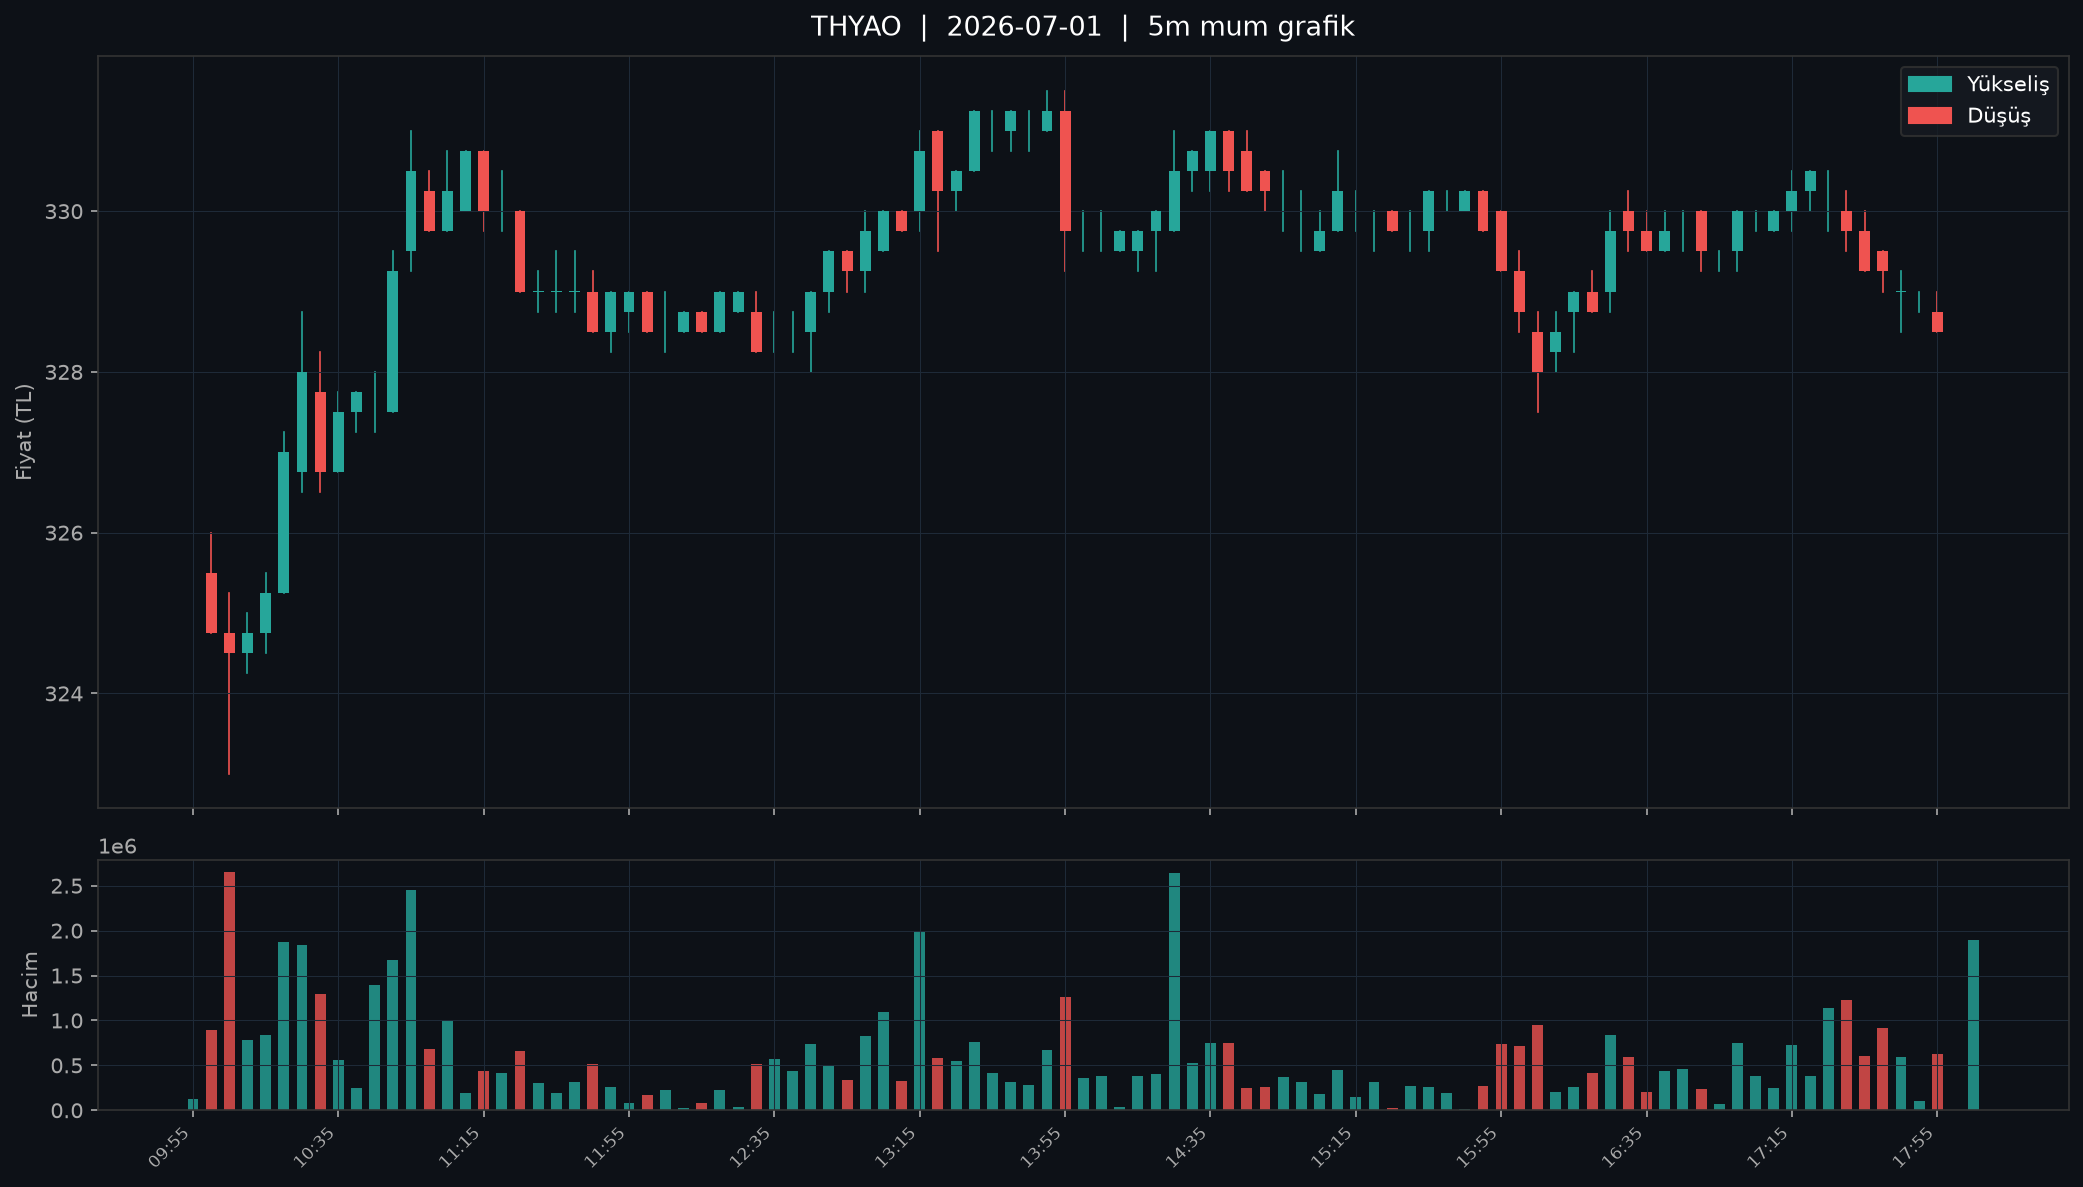
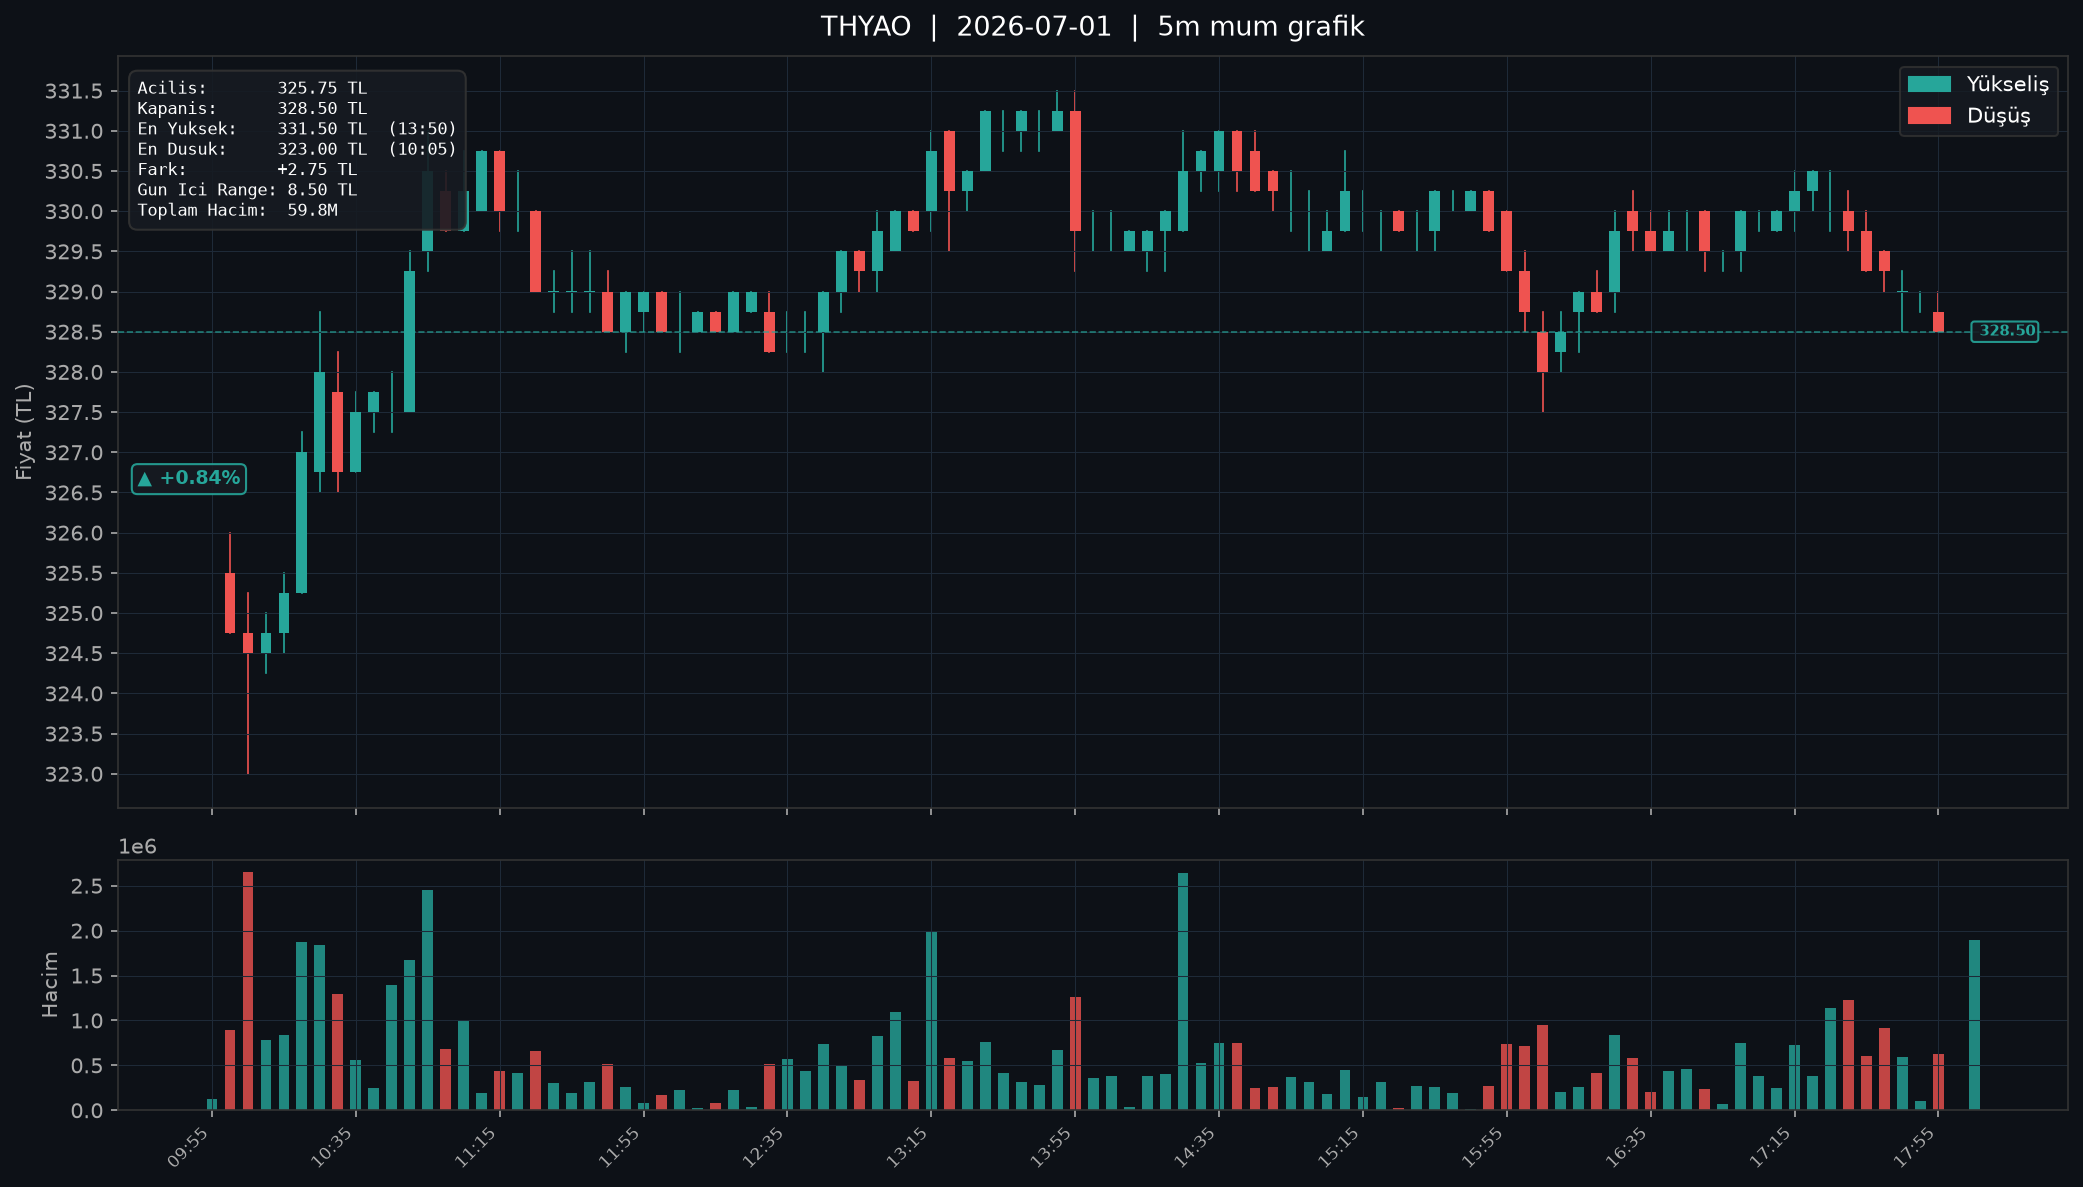
Added detailed price summary overlay and precise tick intervals to candlestick charts

diff --git a/bistgraphic.py b/bistgraphic.py
@@ -1,6 +1,7 @@
 import borsapy as bp
 import matplotlib.pyplot as plt
 import matplotlib.patches as mpatches
+from matplotlib.ticker import MultipleLocator
 import pandas as pd
 
 #parameters
@@ -28,6 +29,28 @@ df["Tarih"] = df["Datetime"].dt.date
 df["Saat"] = df["Datetime"].dt.time
 df.to_csv(f"{dosya_adi}.csv", index=False, encoding="utf-8")
 print(f"CSV kaydedildi: {dosya_adi}.csv")
+
+acilis = df.iloc[0]["Open"]
+kapanis = df.iloc[-1]["Close"]
+en_yuksek_idx = df["High"].idxmax()
+en_dusuk_idx = df["Low"].idxmin()
+en_yuksek = df.loc[en_yuksek_idx, "High"]
+en_dusuk = df.loc[en_dusuk_idx, "Low"]
+en_yuksek_saat = df.loc[en_yuksek_idx, "Datetime"].strftime("%H:%M")
+en_dusuk_saat = df.loc[en_dusuk_idx, "Datetime"].strftime("%H:%M")
+fark_tl = kapanis - acilis
+gun_ici_range = en_yuksek - en_dusuk
+degisim = (kapanis - acilis) / acilis * 100
+toplam_hacim = df["Volume"].sum()
+
+def hacim_format(v):
+    if v >= 1_000_000_000:
+        return f"{v / 1_000_000_000:.1f}B"
+    if v >= 1_000_000:
+        return f"{v / 1_000_000:.1f}M"
+    if v >= 1_000:
+        return f"{v / 1_000:.1f}K"
+    return str(int(v))
 
 #candlestick
 fig, (ax1, ax2) = plt.subplots(
@@ -74,6 +97,7 @@ for ax in (ax1, ax2):
 
 ax1.set_title(f"{sembol}  |  {start}  |  {interval} mum grafik",
               color="white", fontsize=13, pad=10)
+ax1.yaxis.set_major_locator(MultipleLocator(0.5))
 ax1.set_ylabel("Fiyat (TL)", color="#aaaaaa")
 ax2.set_ylabel("Hacim", color="#aaaaaa")
 
@@ -81,6 +105,39 @@ yesil = mpatches.Patch(color="#26a69a", label="Yükseliş")
 kirmizi = mpatches.Patch(color="#ef5350", label="Düşüş")
 ax1.legend(handles=[yesil, kirmizi], facecolor="#161b22",
            labelcolor="white", edgecolor="#333333")
+
+degisim_ok = "▲" if degisim >= 0 else "▼"
+degisim_renk = "#26a69a" if degisim >= 0 else "#ef5350"
+fark_isaret = "+" if fark_tl >= 0 else ""
+ozet_metin = (
+    f"Acilis:       {acilis:.2f} TL\n"
+    f"Kapanis:      {kapanis:.2f} TL\n"
+    f"En Yuksek:    {en_yuksek:.2f} TL  ({en_yuksek_saat})\n"
+    f"En Dusuk:     {en_dusuk:.2f} TL  ({en_dusuk_saat})\n"
+    f"Fark:         {fark_isaret}{fark_tl:.2f} TL\n"
+    f"Gun Ici Range: {gun_ici_range:.2f} TL\n"
+    f"Toplam Hacim:  {hacim_format(toplam_hacim)}"
+)
+ax1.text(0.01, 0.97, ozet_metin, transform=ax1.transAxes,
+         fontsize=8, fontfamily="monospace", color="white",
+         verticalalignment="top",
+         bbox=dict(boxstyle="round,pad=0.5", facecolor="#161b22",
+                   edgecolor="#333333", alpha=0.9))
+
+degisim_str = f"{degisim_ok} {degisim:+.2f}%"
+ax1.text(0.01, 0.45, degisim_str, transform=ax1.transAxes,
+         fontsize=9, fontweight="bold", color=degisim_renk,
+         verticalalignment="top",
+         bbox=dict(boxstyle="round,pad=0.3", facecolor="#161b22",
+                   edgecolor=degisim_renk, alpha=0.9))
+
+ax1.axhline(y=kapanis, color=degisim_renk, linestyle="--",
+            linewidth=0.8, alpha=0.7, zorder=3)
+ax1.text(len(df) - 1, kapanis, f" {kapanis:.2f}",
+         fontsize=7, color=degisim_renk, fontweight="bold",
+         verticalalignment="center",
+         bbox=dict(boxstyle="round,pad=0.2", facecolor="#161b22",
+                   edgecolor=degisim_renk, alpha=0.9))
 
 plt.tight_layout()
 grafik_adi = f"{dosya_adi}_candlestick.png"